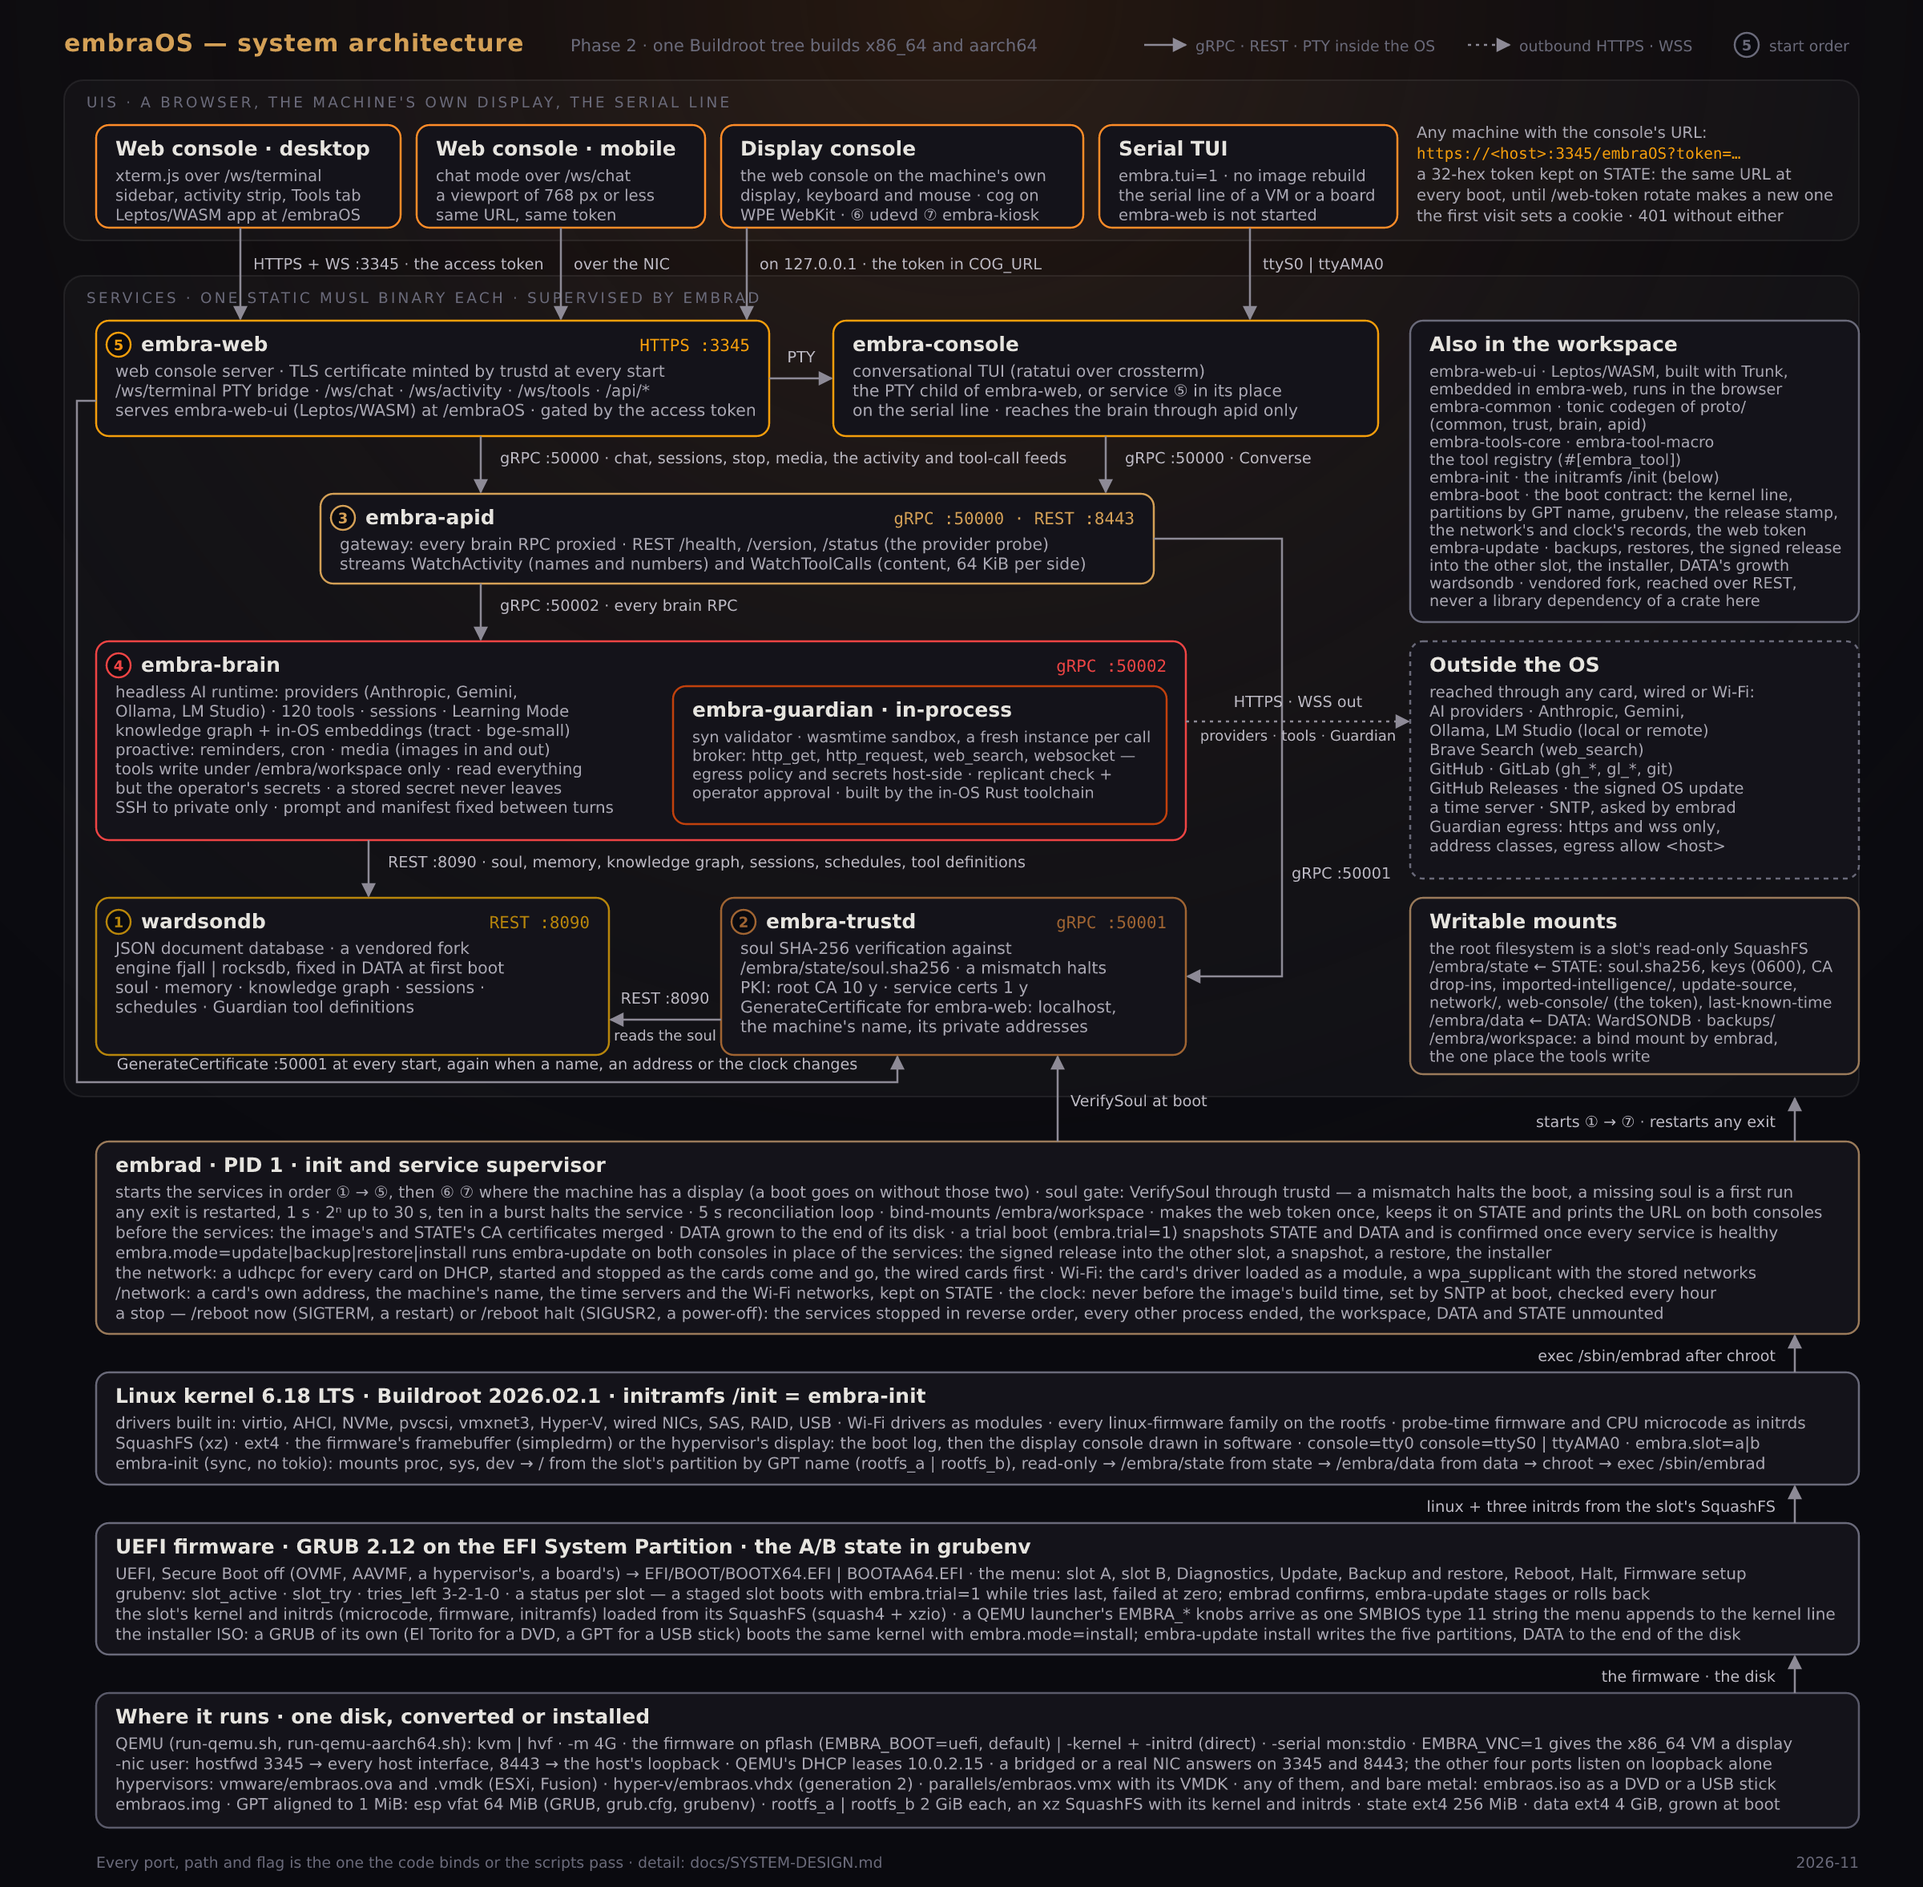
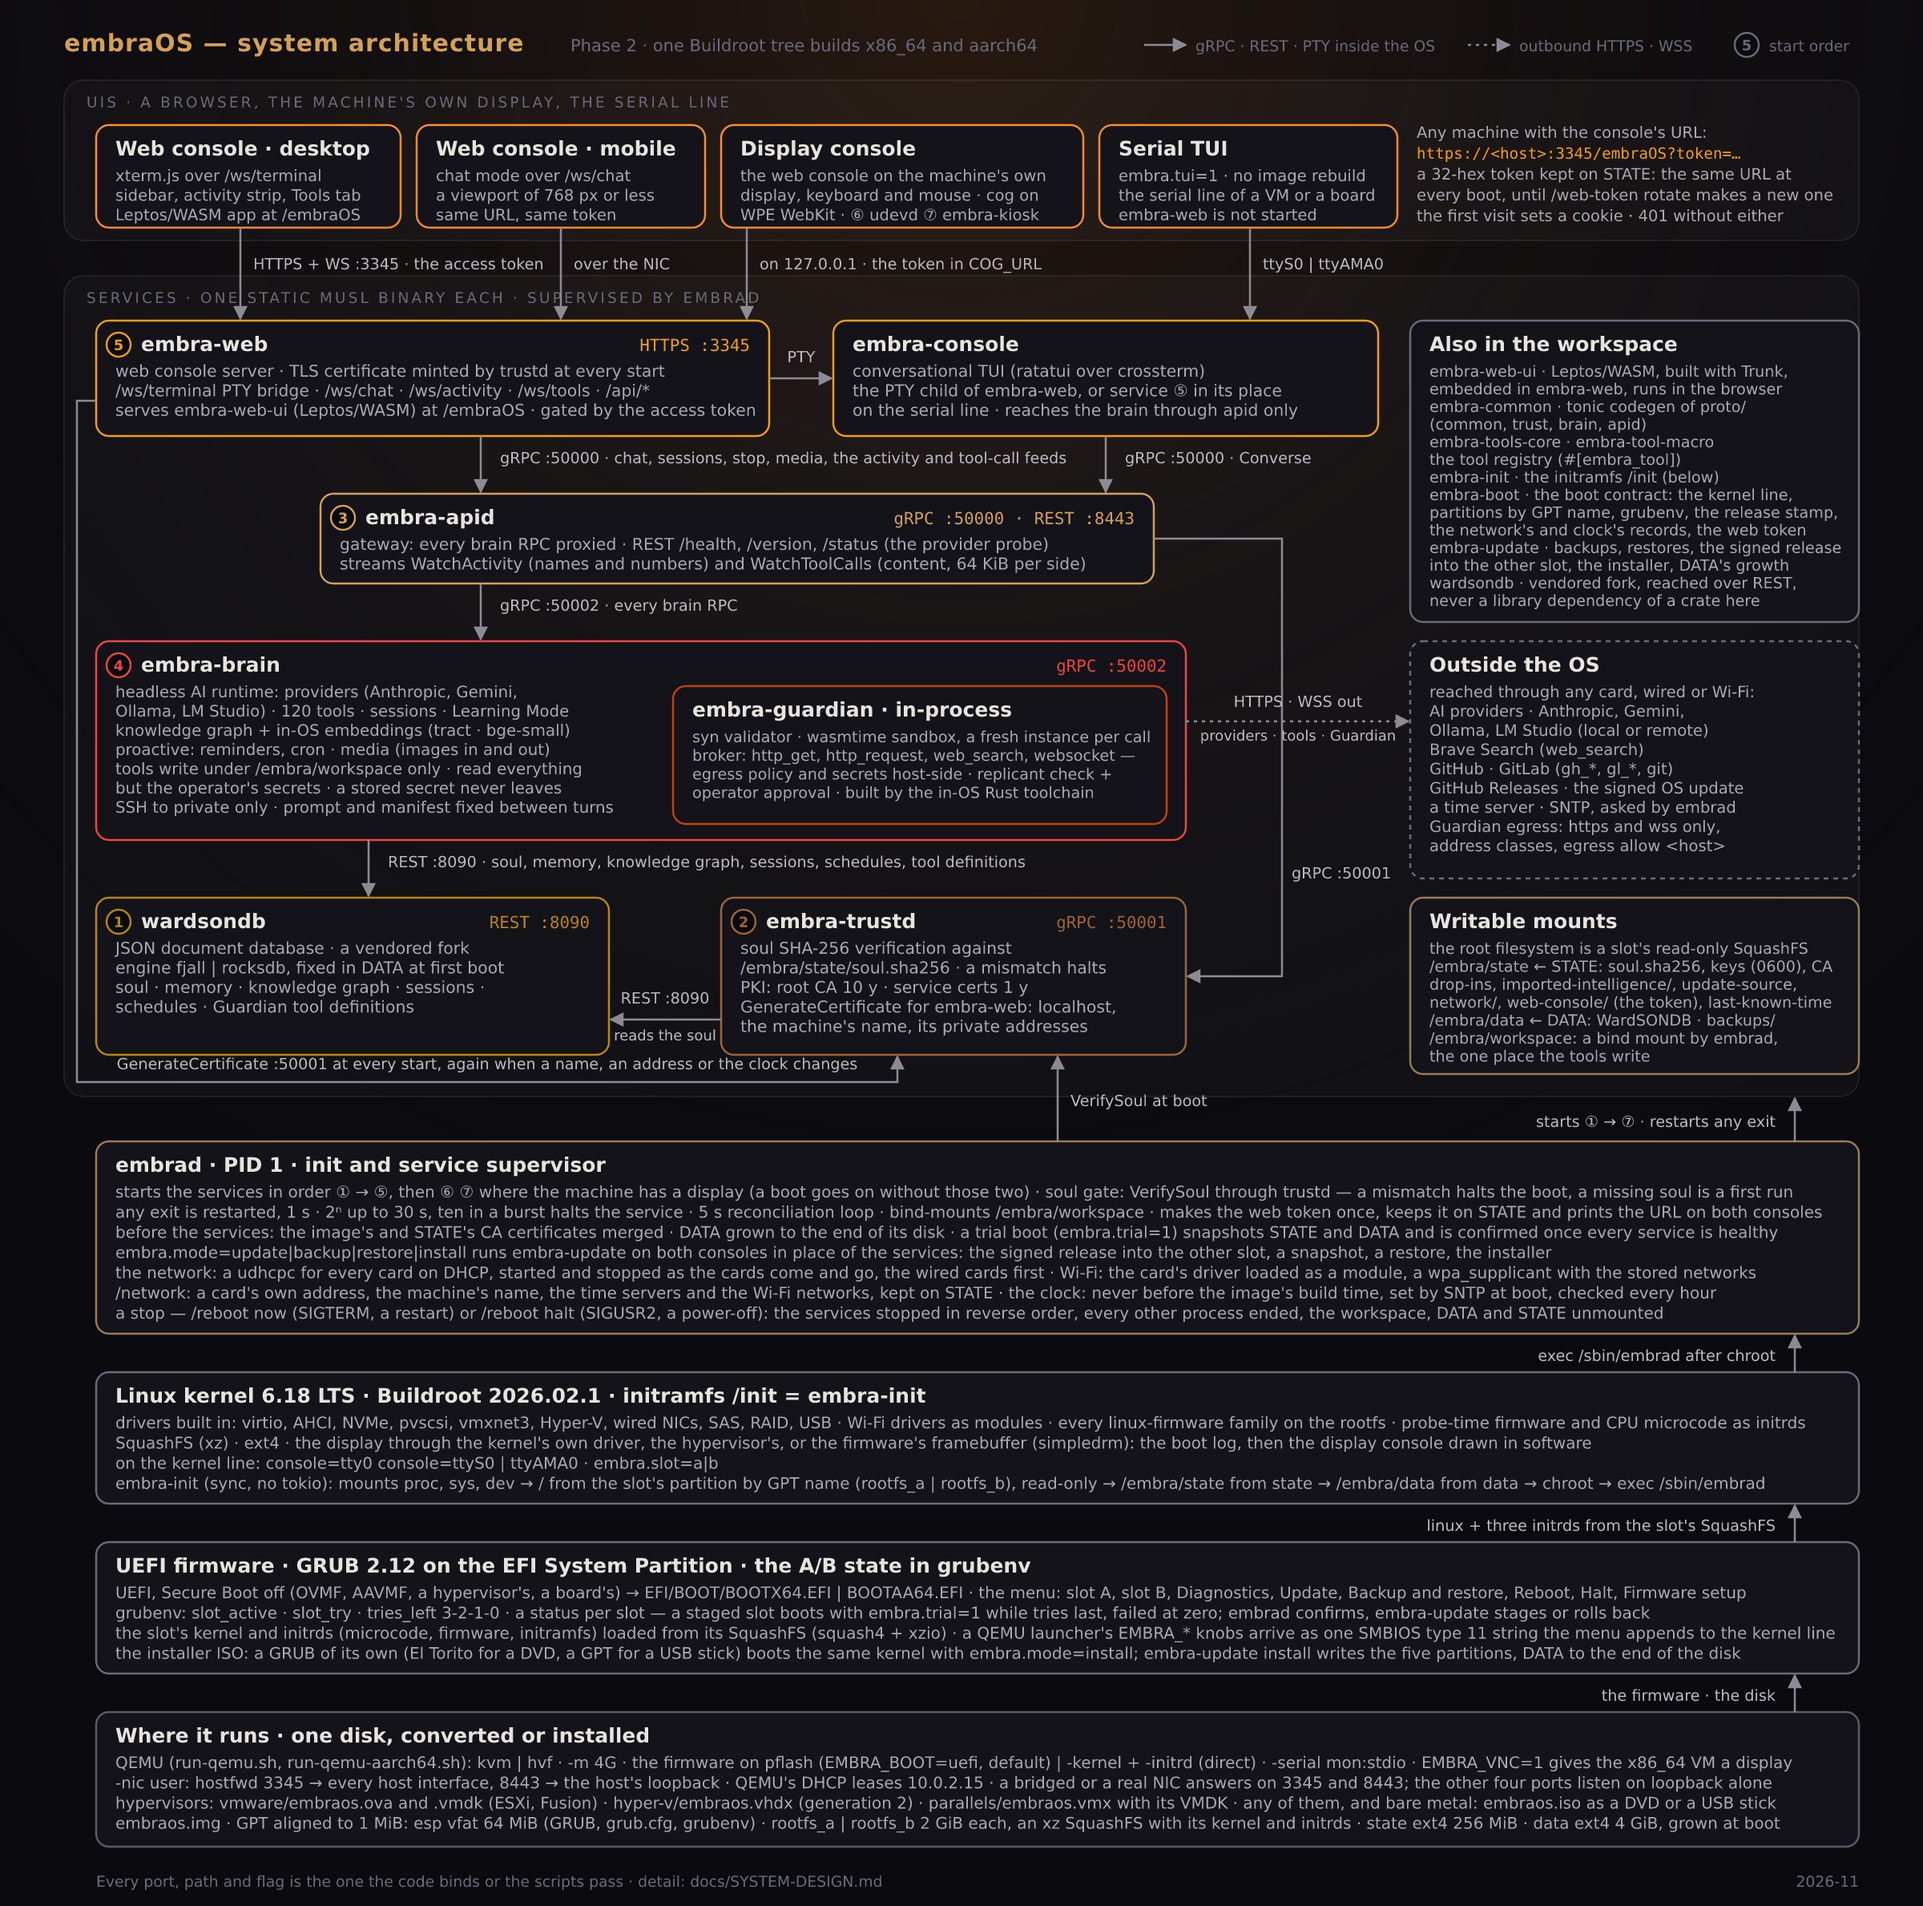
docs: the README's five machines, the figure's display line, the installer medium's size
Three updates the read before the next release left for William's
review, and his answer: "Updates approved for 1 - 3".

1. The README said "bare metal on two machines so far". The status page
   has five: the YouYeeToo X1, the ThinkPad E550, the AWOW NY41S stick
   PC, the Beelink SER with its AMD processor, and the Raspberry Pi 5
   through a UEFI firmware.

2. The architecture figure's kernel slab said "the firmware's
   framebuffer (simpledrm) or the hypervisor's display". On a machine
   with Intel's or AMD's graphics the display is the kernel's own
   driver's: "the display through the kernel's own driver, the
   hypervisor's, or the firmware's framebuffer (simpledrm)". The longer
   wording takes the line, so the kernel line's two items stand on a
   line of their own and the slab is one line taller (the canvas 1177
   to 1189). The SVG and the PNG are the generator's output.

3. The updates page gave the x86_64 installer medium as about 980 MB.
   With the two graphics drivers' firmware in the boot archive, which
   the medium carries twice (in the slot image and beside its own
   kernel), it is about 1.06 GB: the slot image measured at 963.7 MB,
   the kernel, the microcode and the firmware archive beside it at
   85.7 MB, and the rest of the medium as in `v0.27.0-phase2`, whose
   978 MB add up the same way. A figure computed from measured parts,
   to be read against the release's own build.

Claude-Session: https://claude.ai/code/session_014ywAddkdY6vwmCc2qNRZmC

Changed region(s): [[0.0312, 0.062, 0.9688, 0.9613]]

diff --git a/assets/system-architecture.py b/assets/system-architecture.py
@@ -15,7 +15,7 @@ import os
 import subprocess
 
 OUT = os.path.dirname(os.path.abspath(__file__))
-W, H = 1200, 1177
+W, H = 1200, 1189
 SCALE = 2
 
 # ---------------------------------------------------------------- palette --
@@ -232,7 +232,7 @@ def slab(y, h, title, color, lines, order_note=None):
 # The four slabs stack with a 24 px gap for the connector's label; a slab is
 # 35 px to its first line and 12.6 px a line after it.
 Y_EMBRAD, H_EMBRAD = 712, 120
-Y_KERNEL, H_KERNEL = Y_EMBRAD + H_EMBRAD + 24, 70
+Y_KERNEL, H_KERNEL = Y_EMBRAD + H_EMBRAD + 24, 82
 Y_GRUB, H_GRUB = Y_KERNEL + H_KERNEL + 24, 82
 Y_HOST, H_HOST = Y_GRUB + H_GRUB + 24, 84
 assert Y_HOST + H_HOST + 37 == H, "the canvas ends 37 px under the last slab"
@@ -248,7 +248,8 @@ slab(Y_EMBRAD, H_EMBRAD, "embrad · PID 1 · init and service supervisor", SLAB,
 ])
 slab(Y_KERNEL, H_KERNEL, "Linux kernel 6.18 LTS · Buildroot 2026.02.1 · initramfs /init = embra-init", KERNEL, [
     "drivers built in: virtio, AHCI, NVMe, pvscsi, vmxnet3, Hyper-V, wired NICs, SAS, RAID, USB · Wi-Fi drivers as modules · every linux-firmware family on the rootfs · probe-time firmware and CPU microcode as initrds",
-    "SquashFS (xz) · ext4 · the firmware's framebuffer (simpledrm) or the hypervisor's display: the boot log, then the display console drawn in software · console=tty0 console=ttyS0 | ttyAMA0 · embra.slot=a|b",
+    "SquashFS (xz) · ext4 · the display through the kernel's own driver, the hypervisor's, or the firmware's framebuffer (simpledrm): the boot log, then the display console drawn in software",
+    "on the kernel line: console=tty0 console=ttyS0 | ttyAMA0 · embra.slot=a|b",
     "embra-init (sync, no tokio): mounts proc, sys, dev → / from the slot's partition by GPT name (rootfs_a | rootfs_b), read-only → /embra/state from state → /embra/data from data → chroot → exec /sbin/embrad",
 ])
 slab(Y_GRUB, H_GRUB, "UEFI firmware · GRUB 2.12 on the EFI System Partition · the A/B state in grubenv", KERNEL, [

diff --git a/docs/OPERATIONS/UPDATES-AND-BACKUPS.md b/docs/OPERATIONS/UPDATES-AND-BACKUPS.md
@@ -109,7 +109,7 @@ The last answer is in `system_status`, in its `update` block, and `/status` prin
 
 A rollback onto a knowledge graph the newer release migrated: the older brain refuses to start — the halt reason names both schemas and the `pre-` snapshot — and the boot menu's Restore entry puts that snapshot back. The Guardian's dynamic tools are rebuilt with `/guardian rebuild --all` when a release moves the in-OS toolchain ([COMMAND-REFERENCE.md](COMMAND-REFERENCE.md)).
 
-A release also publishes the installer medium, one per architecture and engine: `embraos-<tag>-<arch>-<engine>.iso` (the x86_64 one is about 980 MB and the aarch64 one about 920 MB, with the firmware), beside it `…iso.sha256`, its `sha256sum` line, and `…iso.sha256.sig`, the same Ed25519 signature over that line as the manifests carry, made with the operator's key (`scripts/release-update.sh` writes the three and names them in its upload line; with an xorriso at hand it refuses an ISO whose own manifest names another architecture, engine, version or build). To check a download: `sha256sum -c embraos-<tag>-<arch>-<engine>.iso.sha256`, and `openssl pkeyutl -verify -rawin -pubin -inkey <the key from scripts/update-signing.pub> -in …iso.sha256 -sigfile <(base64 -d …iso.sha256.sig)`. The OS never downloads the ISO; it is for a fresh install, and the images it writes update from the manifests like any other.
+A release also publishes the installer medium, one per architecture and engine: `embraos-<tag>-<arch>-<engine>.iso` (the x86_64 one is about 1.06 GB and the aarch64 one about 920 MB, with the firmware), beside it `…iso.sha256`, its `sha256sum` line, and `…iso.sha256.sig`, the same Ed25519 signature over that line as the manifests carry, made with the operator's key (`scripts/release-update.sh` writes the three and names them in its upload line; with an xorriso at hand it refuses an ISO whose own manifest names another architecture, engine, version or build). To check a download: `sha256sum -c embraos-<tag>-<arch>-<engine>.iso.sha256`, and `openssl pkeyutl -verify -rawin -pubin -inkey <the key from scripts/update-signing.pub> -in …iso.sha256 -sigfile <(base64 -d …iso.sha256.sig)`. The OS never downloads the ISO; it is for a fresh install, and the images it writes update from the manifests like any other.
 
 `/update apply --allow-downgrade` applies what an apply refuses otherwise, a release older than the running one or another build of the running version; `--tag <v…>` on a check or an apply names one release of a GitHub releases source. The trial boot is the same: the snapshot first, then the brain, and an older brain on a knowledge graph a newer one migrated refuses to start, as after a rollback. The boot menu's entry takes neither.
 

diff --git a/README.md b/README.md
@@ -30,9 +30,10 @@
 > Apple Silicon; VMware ESXi 8.0 U2 (the OVA and the ISO); Microsoft Hyper-V generation 2
 > (the VHDX and the ISO); VMware Fusion on Apple Silicon (the ISO); Parallels Desktop 26.5
 > on an Intel Mac (the machine it imports and the ISO) and Parallels Desktop on Apple
-> Silicon (the ISO); and bare metal on two machines so far: a YouYeeToo X1 single-board
-> computer installed from the ISO, and a Lenovo ThinkPad E550 laptop. The drivers of wired
-> hardware and of the common Wi-Fi card families, with their firmware, and the CPU
+> Silicon (the ISO); and bare metal on five machines so far: a YouYeeToo X1 single-board
+> computer, a Lenovo ThinkPad E550 laptop, an AWOW NY41S stick PC, a Beelink SER mini PC
+> with an AMD processor, and a Raspberry Pi 5 through a UEFI firmware. The drivers of
+> wired hardware and of the common Wi-Fi card families, with their firmware, and the CPU
 > microcode are in the image. The latest release,
 > `v0.27.0-phase2`, publishes the installer ISOs (x86_64 and aarch64, one per storage
 > engine); the disk image and the hypervisor conversions come from a build. What each
